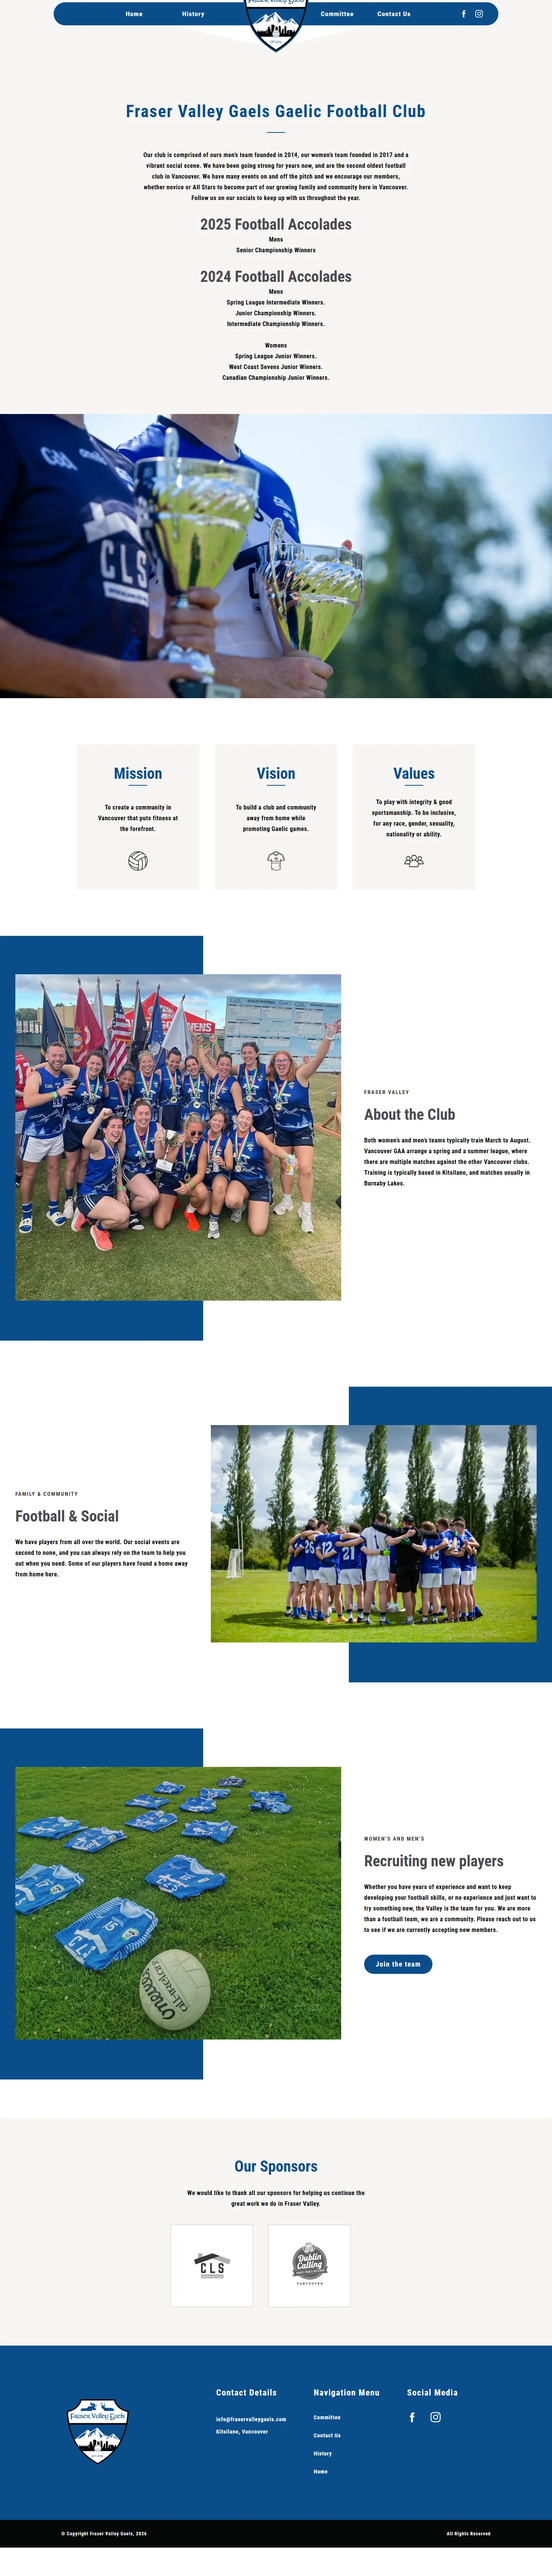
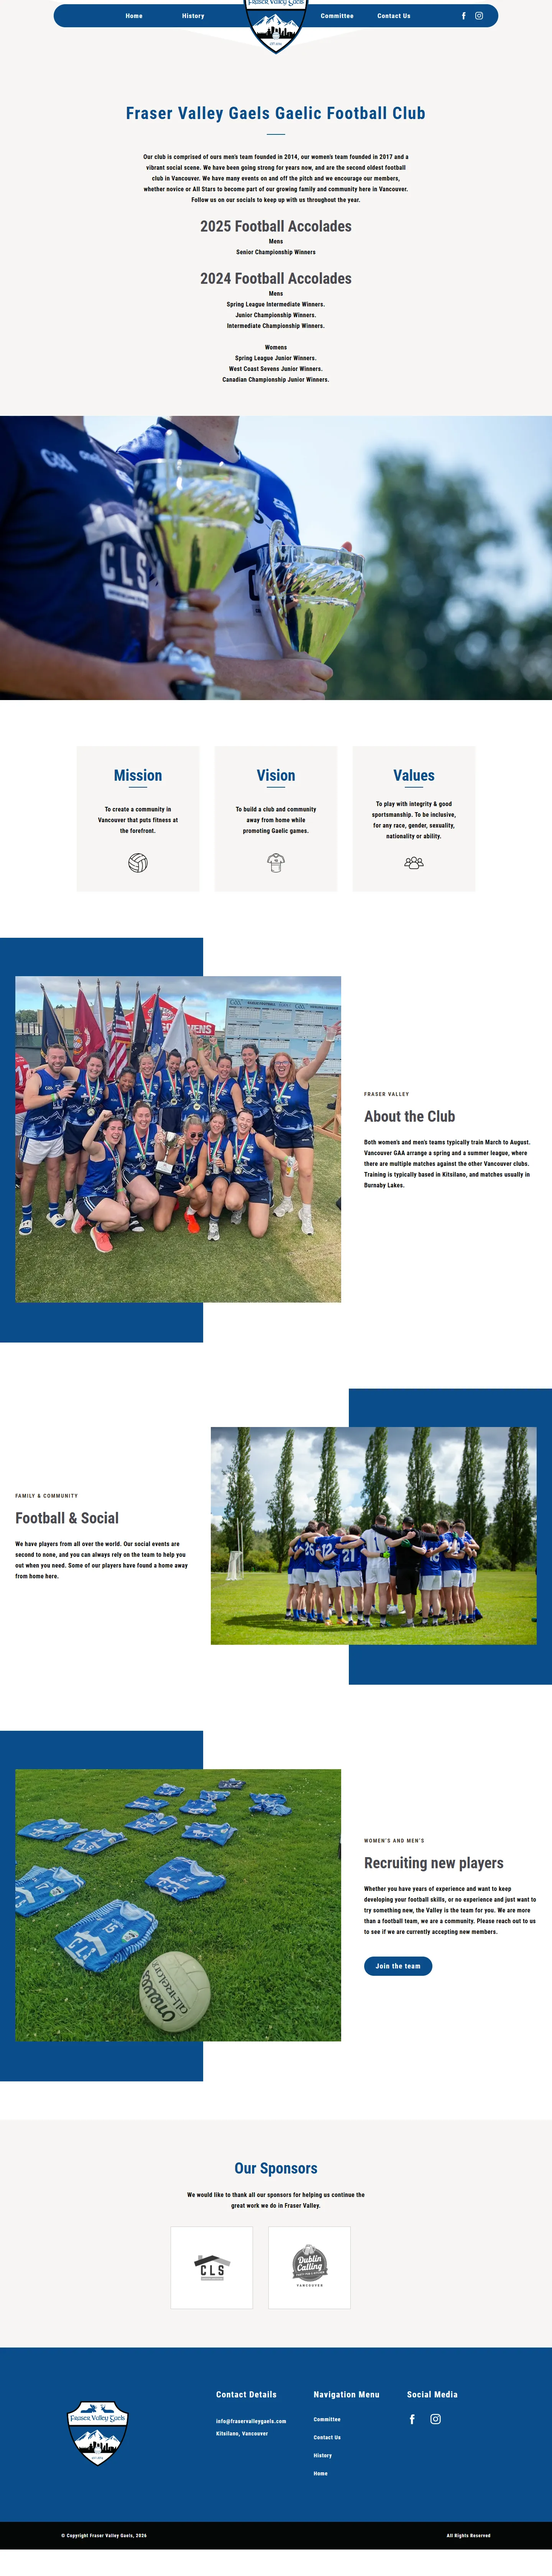
Give Fraser Valley and Nueva Gold real devices mockups
Re-ran npm run capture for both (fresh screenshots, plus the new mockup in the
last row), removed their devices.svg placeholders, and updated the capture notes
in CLAUDE.md and README.md and the changelog.

diff --git a/work/fraser-valley/index.html b/work/fraser-valley/index.html
@@ -108,7 +108,7 @@
                 <include src="view-code.html" repo="https://github.com/gemmagentles/fraservalley"></include>
               </div>
             </div>
-            <include src="work-split-devices.html" image="/images/work/fraser-valley/devices.svg" width="1600" height="1246" alt="The Fraser Valley website on a desktop, a laptop, a tablet and a phone"></include>
+            <include src="work-split-devices.html" image="/images/work/fraser-valley/pages/devices.webp" width="1600" height="1246" alt="The Fraser Valley website on an iMac, a MacBook, an iPad and an iPhone"></include>
           </div>
         </div>
       </section>

diff --git a/work/nueva-gold/index.html b/work/nueva-gold/index.html
@@ -108,7 +108,7 @@
                 <include src="view-code-private.html"></include>
               </div>
             </div>
-            <include src="work-split-devices.html" image="/images/work/nueva-gold/devices.svg" width="1600" height="1246" alt="The Nueva Gold website on a desktop, a laptop, a tablet and a phone"></include>
+            <include src="work-split-devices.html" image="/images/work/nueva-gold/pages/devices.webp" width="1600" height="1246" alt="The Nueva Gold website on an iMac, a MacBook, an iPad and an iPhone"></include>
           </div>
         </div>
       </section>

diff --git a/README.md b/README.md
@@ -85,7 +85,7 @@ This creates `work/project-name/index.html` in the work-v4 layout (a carousel of
 
 1. Add a card for it in `index.html` (the command prints the line to paste).
 2. Write the case study text: replace everything in [square brackets], and the live site address (`https://example.com`). "View code" is set up for you: if your GitHub account has a public repo named after the client (spaces, dashes and capitals ignored), it links there; if not, it shows "Repo private". To change it, swap `view-code-private.html` for `view-code.html` with `repo="..."` (or back).
-3. Pictures: with the site's address, the carousel, the iMac, the iPad, the phone and a brand guidelines board (their name, font, colours, logo and favicon) are made for you (in `public/images/work/project-name/pages/`). Replace the rest by hand as `.webp`: the devices mockup (`devices`) and a 1600×1000 `cover` for the home page card. Then update the `image` (and `width`/`height`) on each include in the page, and on the home page card. A picture you set by hand is never overwritten by a re-capture.
+3. Pictures: with the site's address, the carousel, the iMac, the iPad, the phone, a brand guidelines board (their name, font, colours, logo and favicon) and the last row's devices mockup (the site on an iMac, a MacBook, an iPad and an iPhone, like LNDMRK's) are made for you (in `public/images/work/project-name/pages/`). Replace the rest by hand as `.webp`: a 1600×1000 `cover` for the home page card. Then update the `image` (and `width`/`height`) on each include in the page, and on the home page card. A picture you set by hand is never overwritten by a re-capture.
 4. Add the page to `public/sitemap.xml`.
 
 ## Before launch checklist

diff --git a/CLAUDE.md b/CLAUDE.md
@@ -19,7 +19,11 @@ front-end developer and designer; explain changes in plain words and check them 
   pictures in when they show placeholders or an earlier capture (pictures chosen by hand are left alone). It also
   writes a brand guidelines board, `partials/brand-board-<slug>.html` (`scripts/brand-board.js`: name, heading font
   from Google Fonts when it's there, main colours, logo and favicon), for the 4th row; a board without the "made by
-  npm run capture" note is hand-made and left alone. The site's own font files are never copied (licensing). Re-run
+  npm run capture" note is hand-made and left alone. And it makes the last row's devices mockup,
+  `pages/devices.webp` (`scripts/devices-mockup.js`: an iMac, MacBook, upright iPad and iPhone drawn in HTML/CSS
+  like LNDMRK's, filled with the screenshots, 1600 x 1246, see-through), swapped in over `devices.svg` or an earlier
+  capture only; `node scripts/devices-mockup.js <slug>` remakes just the mockup. The site's own font files are
+  never copied (licensing). Re-run
   it when the client's site changes.
 
 ## How the site is put together

diff --git a/CHANGELOG.md b/CHANGELOG.md
@@ -22,6 +22,9 @@ version number and date.
   project's repo, or, when the repo is private (as for LNDMRK), clicking it makes it try to open (the arrow
   pushes up and back), then the arrow's lines reshape into a padlock as the text changes to "Repo private".
   The arrows on "Visit site" and "View code" are now drawn as lines so the two match.
+- Every case study now ends with a real "all devices" mockup like LNDMRK's: the client's site on an iMac, a
+  MacBook, an iPad and an iPhone, made from its own screenshots by `npm run capture` (it replaces the placeholder,
+  but never a picture chosen by hand). Fraser Valley and Nueva Gold have theirs.
 
 ### Changed
 
